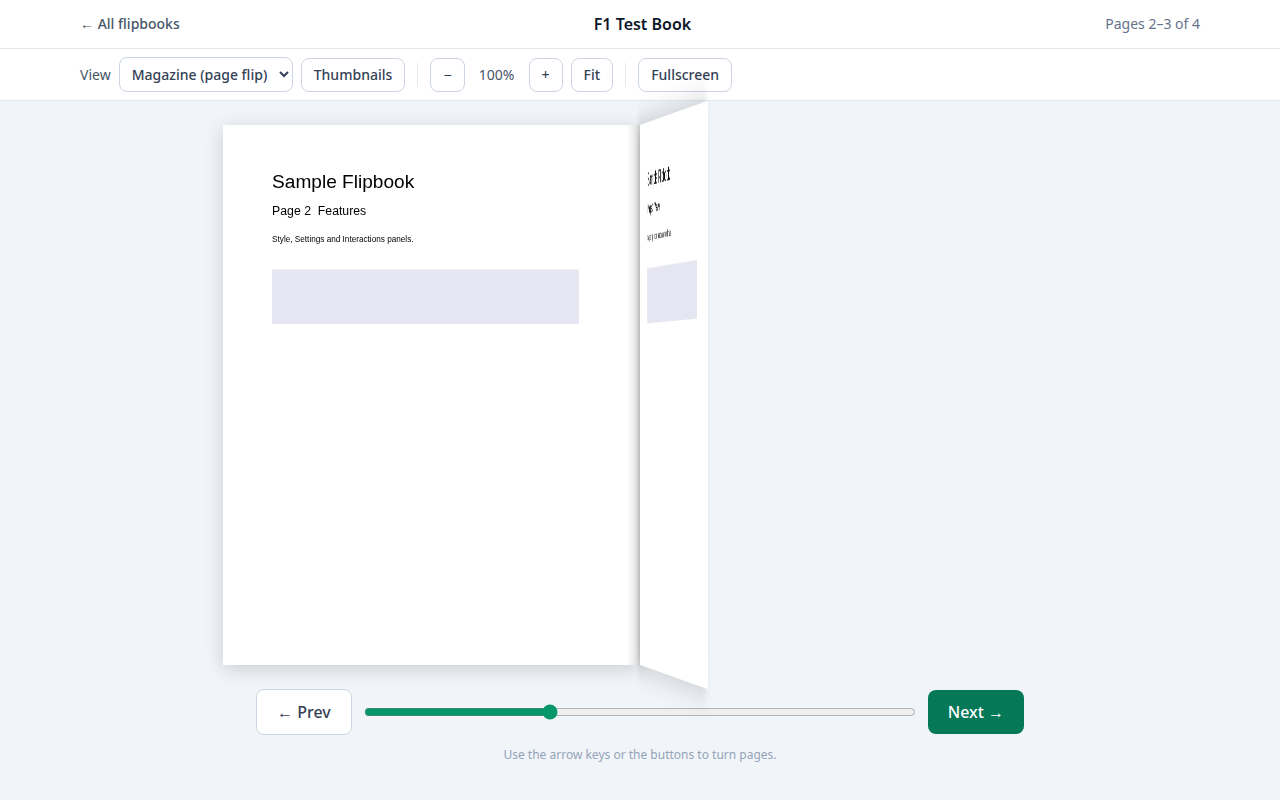
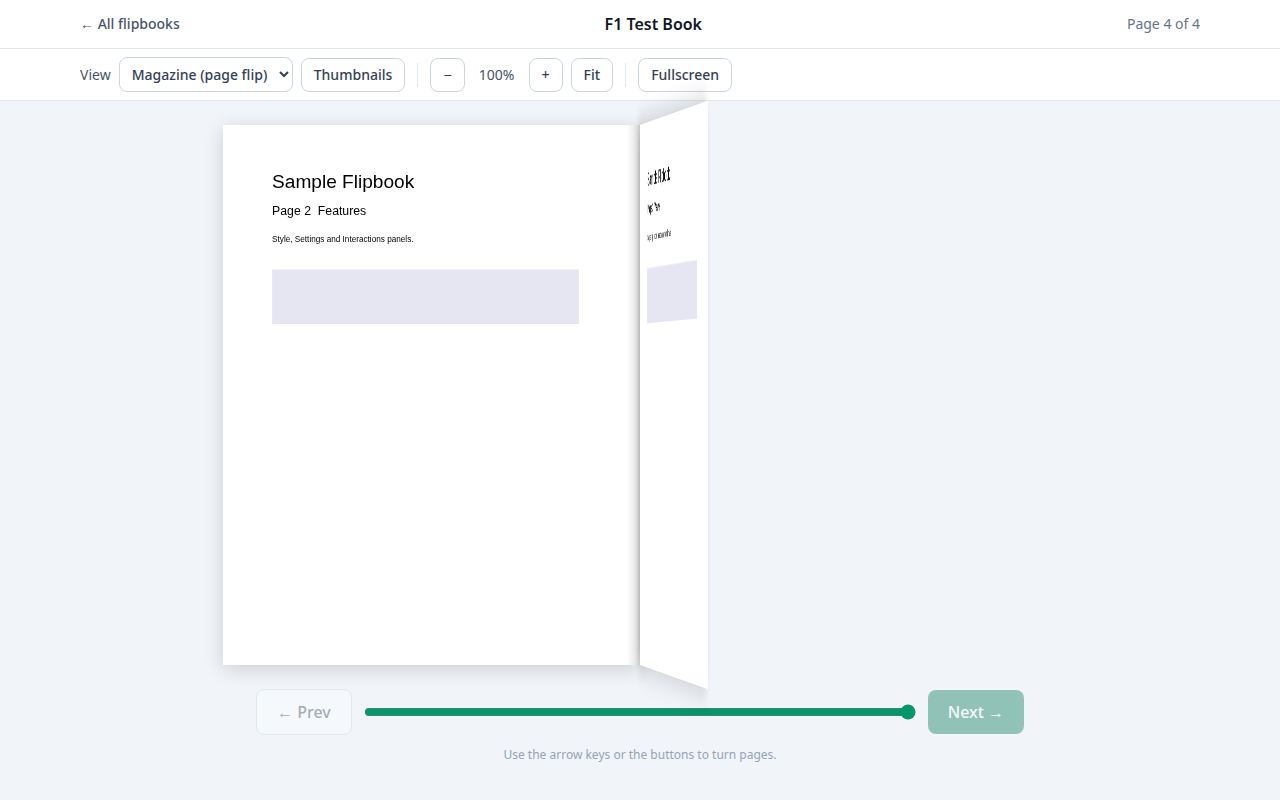
F4: spread pages meet at the spine — remove the 8px gap so the fold no longer opens, closes mid-turn, and opens again; spine shadow keeps the center fold

diff --git a/js/viewer.js b/js/viewer.js
@@ -163,7 +163,6 @@
   }
 
   function fitScaleFor(infos, count) {
-    var gap = count > 1 ? 8 : 0;
     var maxW = stageEl.clientWidth || window.innerWidth - 32;
     var maxH = window.innerHeight - 260;
     var totalW = 0, maxPageH = 0;
@@ -171,7 +170,6 @@
       totalW += infos[i].width;
       if (infos[i].height > maxPageH) maxPageH = infos[i].height;
     }
-    totalW += gap * (count - 1);
     return Math.min(maxW / totalW, maxH / maxPageH, 2);
   }
 
@@ -206,11 +204,21 @@
     stageEl.classList.remove('hidden');
     var infos = await loadPageInfos(pages);
     var scale = fitScaleFor(infos, pages.length) * zoom;
-    var gap = pages.length > 1 ? 8 : 0;
     for (var j = 0; j < infos.length; j++) {
       var canvas = await renderPageCanvas(infos[j], scale);
-      if (j > 0) canvas.style.marginLeft = gap + 'px';
       stageInnerEl.appendChild(canvas);
+    }
+    /* The two pages of a spread meet at the spine — no gap between
+       them (the old 8px gap showed the background through the fold,
+       so the gap opened, closed during the turn, and opened again).
+       The spine shadow keeps the center fold readable. */
+    if (pages.length > 1) {
+      var spine = document.createElement('div');
+      spine.className = 'flip-spine';
+      spine.style.left = 'calc(50% - 13px)';
+      spine.style.top = '0';
+      spine.style.bottom = '0';
+      stageInnerEl.appendChild(spine);
     }
   }
 

diff --git a/viewer.html b/viewer.html
@@ -9,7 +9,7 @@
   <script src="js/vendor/pdf.min.js"></script>
   <script src="js/config.js"></script>
   <script src="js/app.js" defer></script>
-  <script src="js/viewer.js?v=f4d" defer></script>
+  <script src="js/viewer.js?v=f4e" defer></script>
   <style>
     #stage-inner { transition: transform .18s ease, opacity .18s ease; }
     .flip-overlay { position: fixed; z-index: 40; background: #f1f5f9; }
@@ -73,7 +73,7 @@
     </div>
 
     <div id="stage" class="hidden w-full select-none overflow-auto" style="max-height: calc(100vh - 260px)">
-      <div id="stage-inner" class="mx-auto flex w-max"></div>
+      <div id="stage-inner" class="relative mx-auto flex w-max"></div>
       <div id="coverflow" class="hidden"></div>
     </div>
 
